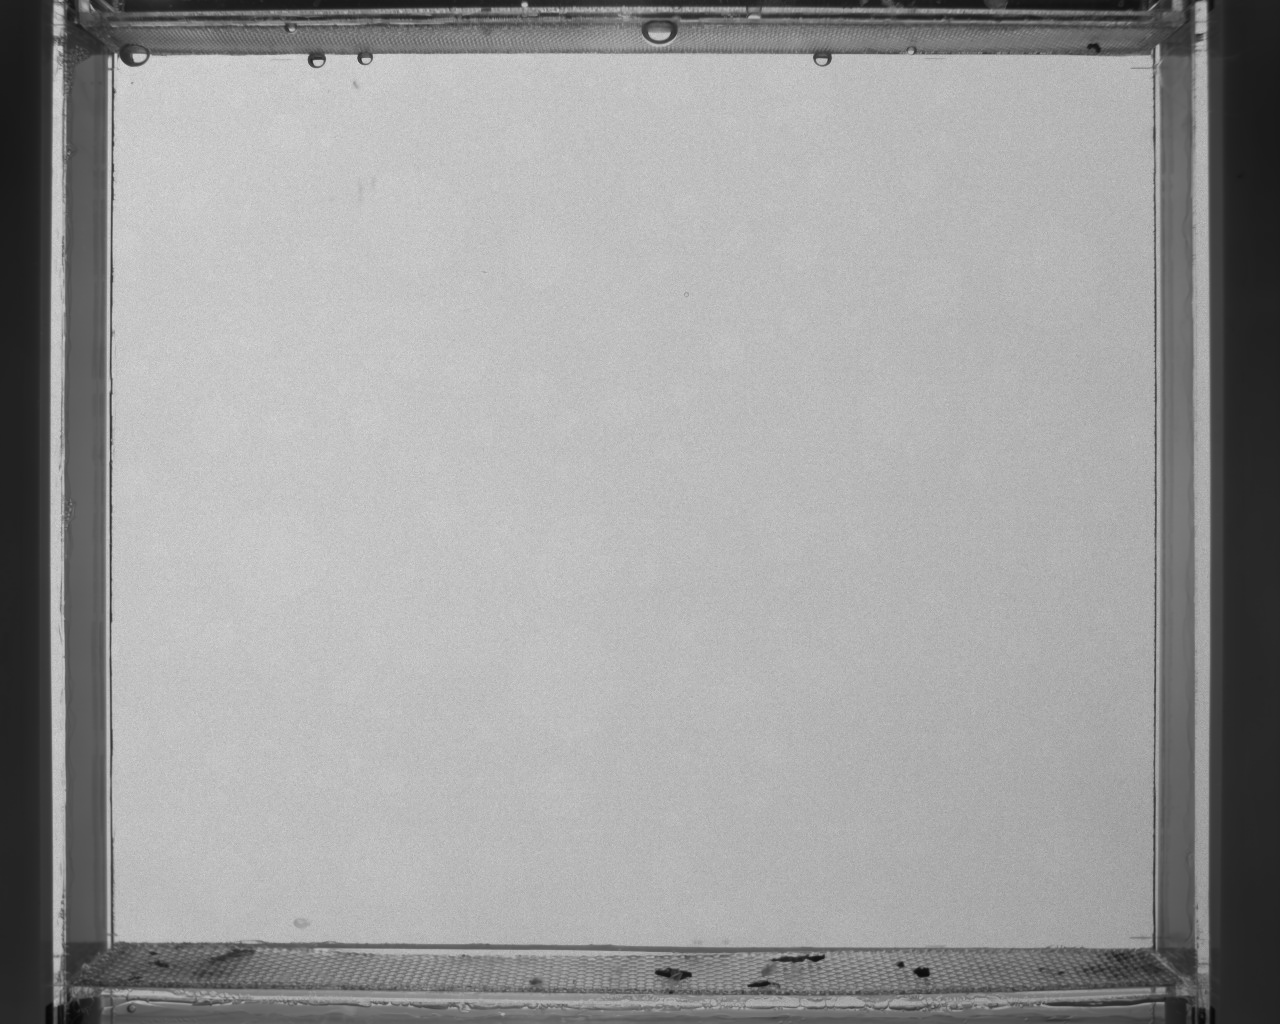
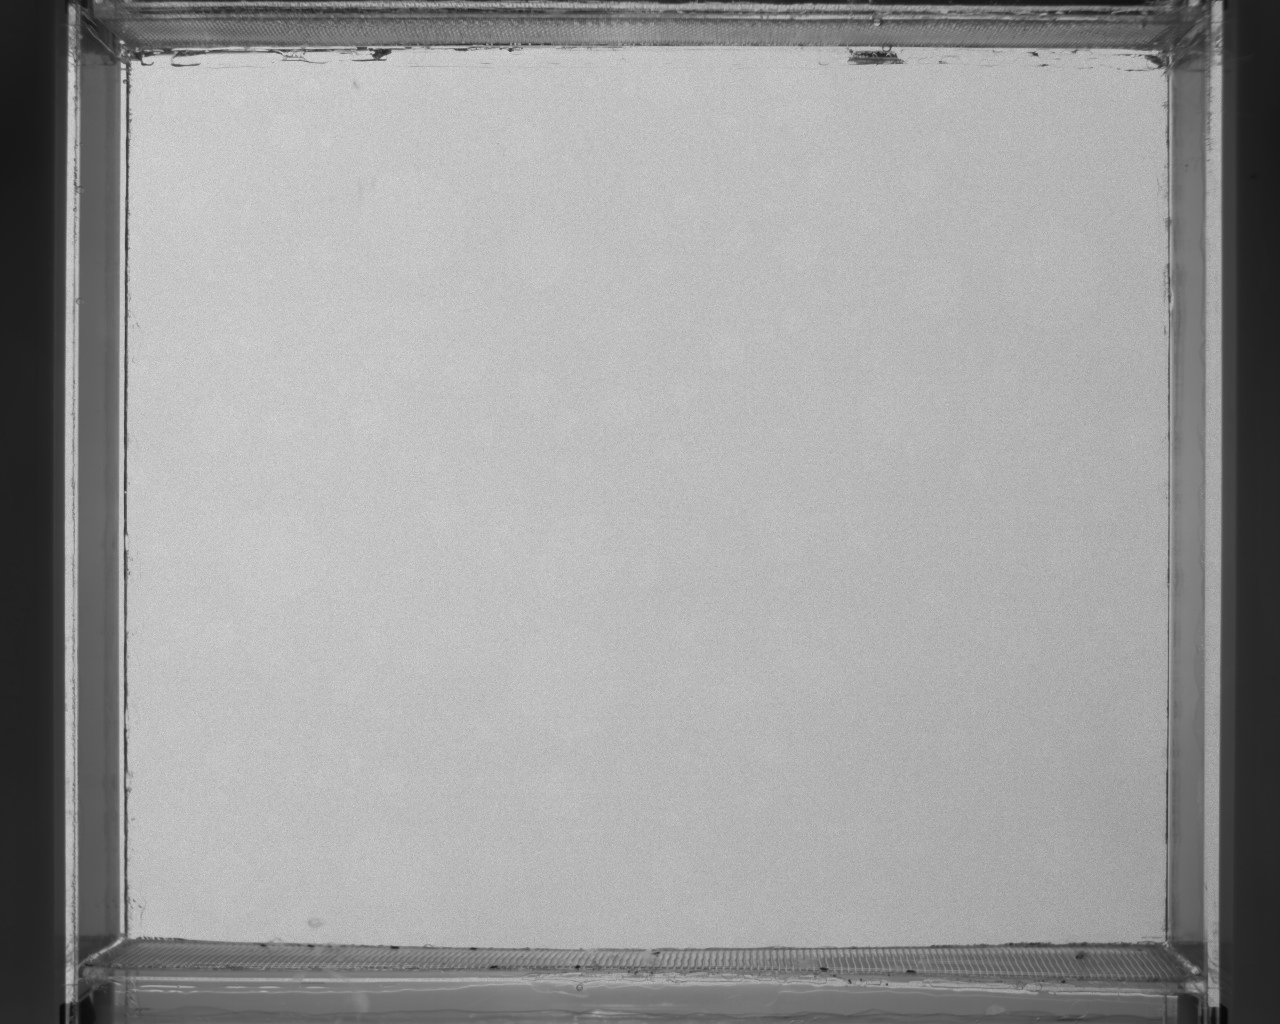
new backgrounds and camera params (8 in sum)

Changed region(s): [[0.0312, 0.0, 0.9688, 1.0]]

diff --git a/generator/main.cpp b/generator/main.cpp
@@ -6,11 +6,17 @@ void main(int argc, char** argv)
 try{
 	Generator generator(argc, argv);
 	//generator.constructMainJSON();
-	//generator.addInputToMainJSON("../../data/json/annotations/annotation.1.json", "../../data/src/bckg.1.png");
-	//generator.addCameraParamsToMainJSON(1, { 18.1, 15.5, 2.1 });
+	//generator.addInputToMainJSON("../../data/json/annotations/annotation.7.json", "../../data/src/bckg.7.png");
+	//generator.addCameraParamsToMainJSON(7, { 18.1, 15.5, 2.1 });
 	
 	//generator.showPointGrid(0, { 8, 8 }, 0, { -0.7, 0.23, 0 }, true);
 	//generator.showPointGrid(1, { 8, 8 }, 0, { -0.23, 0.07, 0. }, true);
+	//generator.showPointGrid(2, { 8, 8 }, 0, { -0.29, 0.04, 0. }, true);
+	//generator.showPointGrid(3, { 8, 8 }, 0, { -0.11, 0.08, 0. }, true);
+	//generator.showPointGrid(4, { 8, 8 }, 0, { -0.48, 0.05, 0. }, true);
+	//generator.showPointGrid(5, { 8, 8 }, 0, { -0.79, 0.33, 0. }, true);
+	//generator.showPointGrid(6, { 8, 8 }, 0, { -0.23, 0.07, 0. }, true);
+	//generator.showPointGrid(7, { 8, 8 }, 0, { -0.29, 0.09, 0. }, true);
 
 	//double step = -0.3;
 	//for (int i{}; i <= 7; ++i)
@@ -21,9 +27,9 @@ try{
 	//generator.constructConfigRCOJSON(30, { 20, 30 }, { 0.5, 0.8 });
 	//generator.genUntexturedRandomClip("../../data/json/config/config.0.json");
 
-	//generator.makeBackground("../../data/src/video/4.avi", "../../data/src/bckg.4.png");
+	//generator.makeBackground("../../data/src/video/7.avi", "../../data/src/bckg.7.png");
 	//generator.makeTestTexture("../../data/src/test_texture.png");
-	//generator.makeEdgeTextures(1);
+	//generator.makeEdgeTextures(7);
 
 	//for (int i{}; i < 20; ++i) {
 	//	generator.makeCVDaphniaTexture(i, true);
@@ -32,8 +38,8 @@ try{
 	//generator.makeCVDaphniaMask(true);
 	//generator.makeCVDaphniaMask(false);
 
-	generator.genTexturedRandomClip("../../data/json/config/config.0.json");
-	//generator.genTexturedSequentClip("../../data/json/config/config.1.json");
+	//generator.genTexturedRandomClip("../../data/json/config/config.0.json");
+	generator.genTexturedSequentClip("../../data/json/config/config.1.json");
 }
 catch (const std::exception& exc) {
 	std::cout << exc.what() << std::endl;

diff --git a/generator/utils.cpp b/generator/utils.cpp
@@ -338,7 +338,8 @@ cv::Mat makeHeatmap(const cv::Mat& mask, std::vector<std::array<double, 2>>& poi
 	cv::Mat gauss;
 	cv::GaussianBlur(mask, gauss, { 7, 7 }, 0, 0);
 	cv::Mat heatmap = cv::Mat::zeros(mask.size(), CV_8UC1);
-	gauss.copyTo(heatmap, mask);
+	cv::normalize(gauss, heatmap, 254, 0, cv::NORM_MINMAX);
+	//gauss.copyTo(heatmap, mask);
 	for (const auto& point : points)
 		heatmap.at<uchar>(point[1], point[0]) = 255;
 	cv::imwrite(filename, heatmap);
